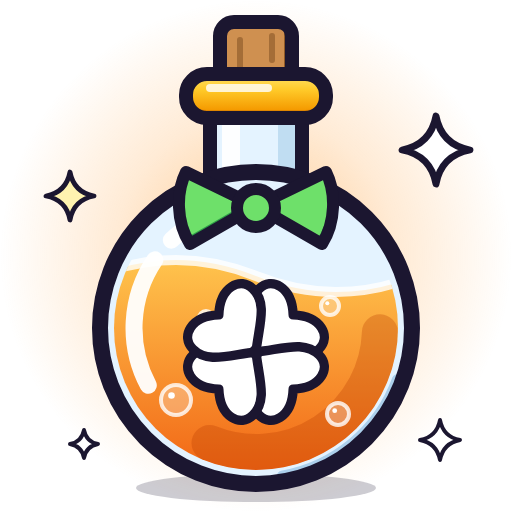
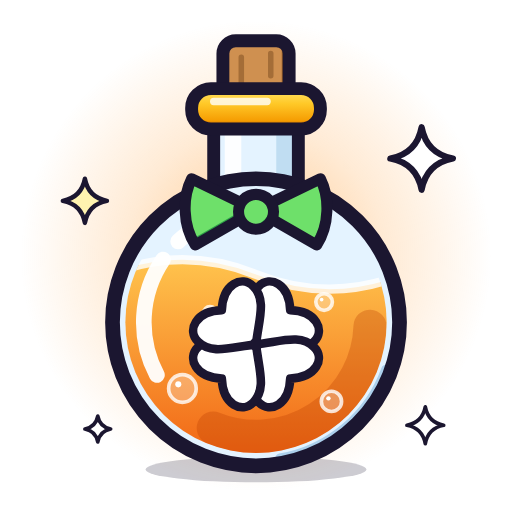
Ajoute une marge autour du sujet des images de la boutique
Chaque dessin est reduit a 92 % et recentre dans son carre de 512 x 512 :
le sujet garde au moins 27 px de marge de chaque cote (7 px au plus juste
auparavant), pour que rien ne touche le bord du fichier une fois l'image
posee dans la case de la carte.

Claude-Session: https://claude.ai/code/session_01EdLtw3KrF98SeKsDP8xjGW

Changed region(s): [[0.125, 0.0312, 0.9062, 1.0], [0.75, 0.2188, 0.9375, 0.375], [0.0938, 0.3125, 0.2188, 0.4375]]

diff --git a/assets/shop/README.md b/assets/shop/README.md
@@ -1,6 +1,7 @@
 # Images de la boutique
 
-Une image par article de la boutique Robux : 512 × 512, fond transparent, objet entier et centré.
+Une image par article de la boutique Robux : 512 × 512, fond transparent, objet entier et centré,
+avec une marge d'au moins 5 % autour du sujet (rien n'est coupé au bord du fichier).
 Aperçu de l'ensemble : `preview.png`.
 
 | Fichier | Ligne de `Config.Images` | Article |
